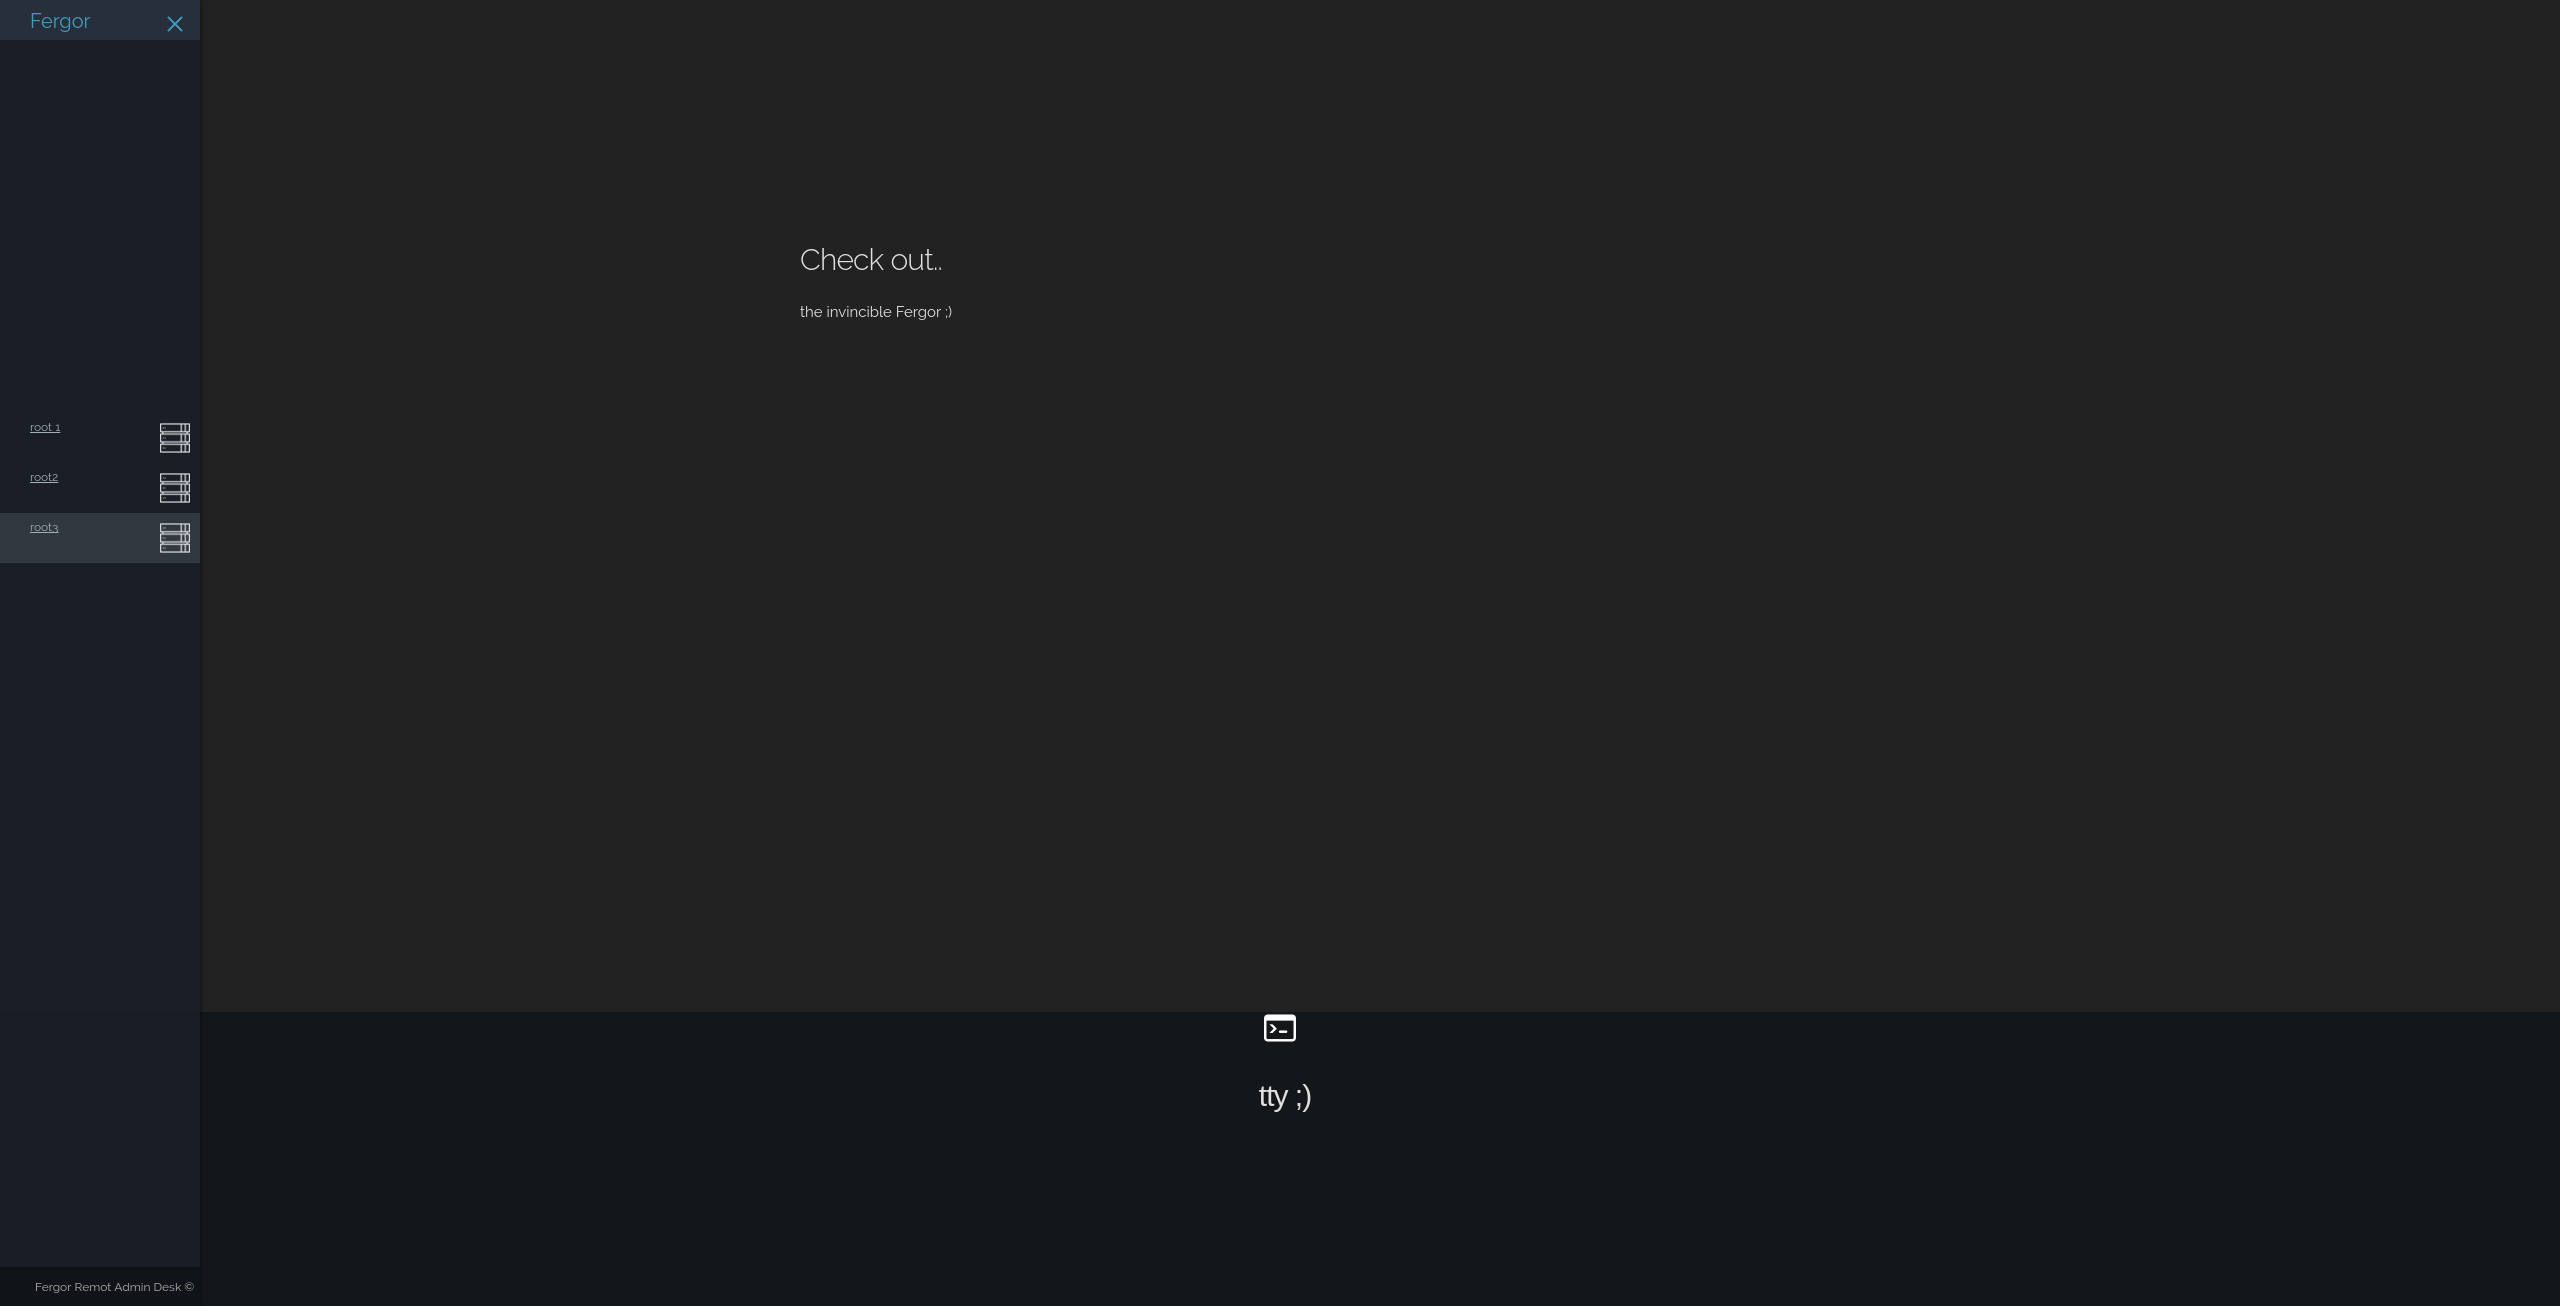
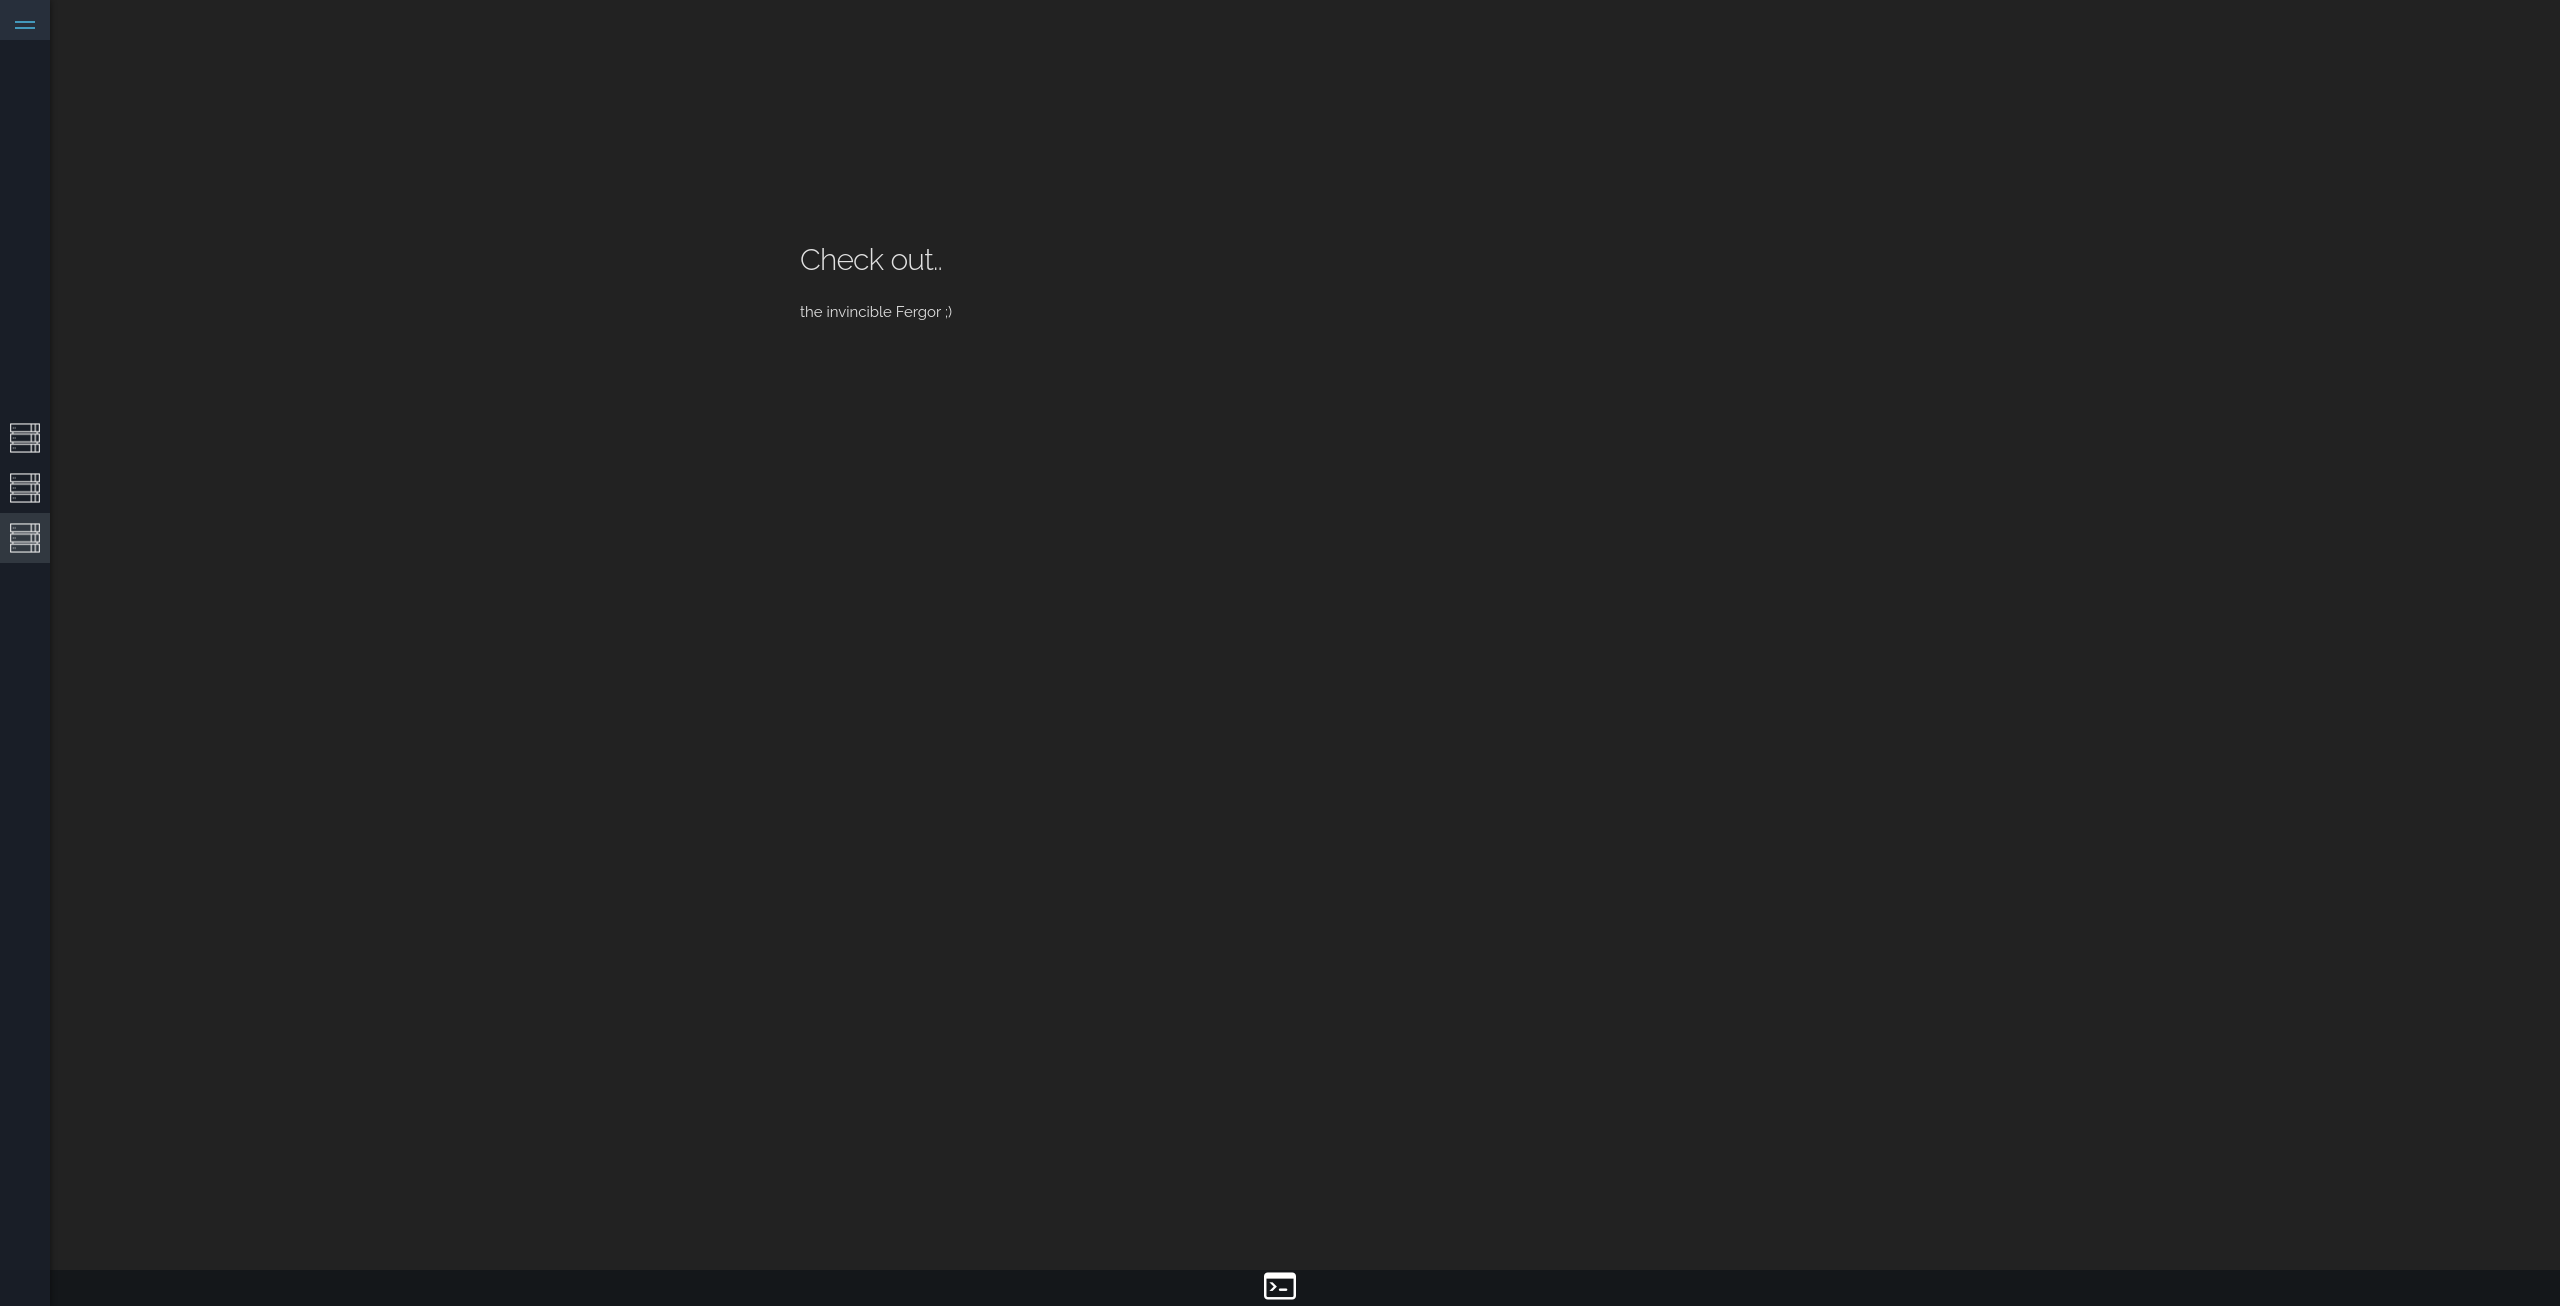
screenshot

Changed region(s): [[0.0, 0.3063, 0.0938, 0.4288], [0.0, 0.0, 0.0938, 0.0306], [0.0312, 0.9801, 0.0625, 1.0]]

diff --git a/README.md b/README.md
@@ -2,6 +2,8 @@
 
 ![Screenshot 1](https://github.com/fergor/fergor/raw/master/screenshots/screenshot_1.png "Screenshot 1")
 
+![Screenshot 2](https://github.com/fergor/fergor/raw/master/screenshots/screenshot_2.png "Screenshot 2")
+
 ## Start
     
     npm install
